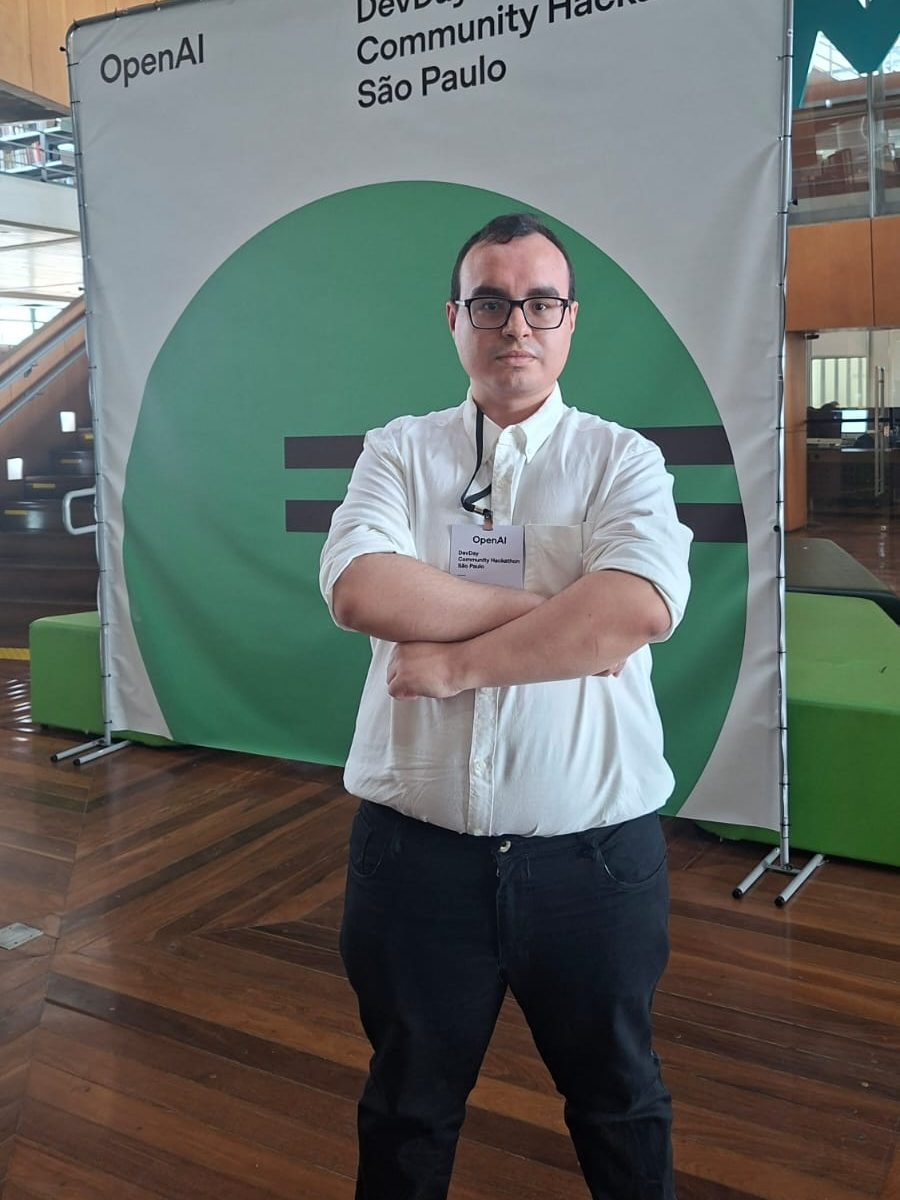
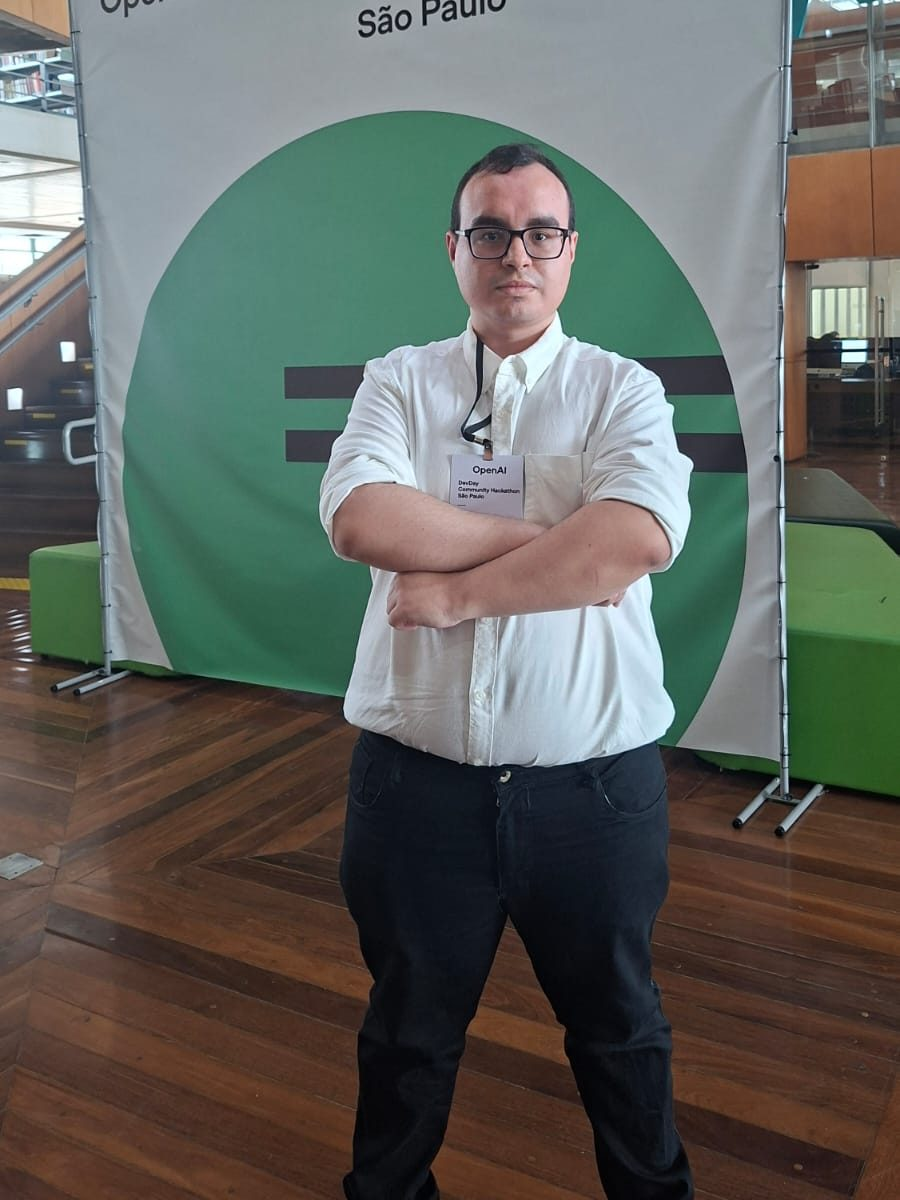
Hero photo breaks out of its frame: cutout head over the border, 3D tilt, light glare, touch drag and scroll camera
Person mask from U2-Net human segmentation; cutout placed with the inverse of the shader mapping so it lines up with the depth canvas.

Claude-Session: https://claude.ai/code/session_01MKFnPgbGyiv9D43ctdiTjM

diff --git a/assets/depth3d.js b/assets/depth3d.js
@@ -83,7 +83,10 @@
         gl.texParameteri(gl.TEXTURE_2D, gl.TEXTURE_MIN_FILTER, gl.LINEAR); gl.texParameteri(gl.TEXTURE_2D, gl.TEXTURE_MAG_FILTER, gl.LINEAR);
         gl.texParameteri(gl.TEXTURE_2D, gl.TEXTURE_WRAP_S, gl.CLAMP_TO_EDGE); gl.texParameteri(gl.TEXTURE_2D, gl.TEXTURE_WRAP_T, gl.CLAMP_TO_EDGE);
         if (!i) self.ia = im.width / im.height;
-        if (++n === 2) { self.ready = true; self.resize(); self.fig.classList.add("gl-on"); self.draw(); }
+        if (++n === 2) {
+          self.ready = true; self.fig.classList.add("gl-on"); self.resize(); self.draw();
+          if (self.hero && self.scan >= 1.5) self.fig.classList.add("cut-in");
+        }
       };
       im.src = i ? self.fig.dataset.depth : (self.imgEl.currentSrc || self.imgEl.src);
     });
@@ -96,7 +99,22 @@
       self.tm = [clamp((e.clientX - (r.left + r.width / 2)) / sx, -1, 1), clamp((e.clientY - (r.top + r.height / 2)) / sy, -1, 1)];
       self.lastInput = performance.now(); self.hover = true;
     });
-    zone.addEventListener("pointerleave", function () { self.hover = false; if (!self.hero) self.tm = [0, 0]; });
+    zone.addEventListener("pointerleave", function () { self.hover = false; self.fig.classList.remove("lit"); if (!self.hero) self.tm = [0, 0]; });
+    if (this.hero) {
+      zone.addEventListener("pointerenter", function (e) { if (e.pointerType === "mouse") self.fig.classList.add("lit"); });
+      var drag = null;
+      this.fig.addEventListener("pointerdown", function (e) {
+        if (e.pointerType === "mouse") return;
+        drag = { x: e.clientX, y: e.clientY, m: self.tm.slice() }; self.fig.classList.add("lit");
+      });
+      this.fig.addEventListener("pointermove", function (e) {
+        if (!drag) return;
+        var r = self.fig.getBoundingClientRect();
+        self.tm = [clamp(drag.m[0] + (e.clientX - drag.x) / (r.width * 0.5), -1, 1), clamp(drag.m[1] + (e.clientY - drag.y) / (r.height * 0.5), -1, 1)];
+        self.lastInput = performance.now();
+      });
+      ["pointerup", "pointercancel"].forEach(function (ev) { self.fig.addEventListener(ev, function () { drag = null; self.fig.classList.remove("lit"); }); });
+    }
     return true;
   };
   Depth.prototype.readColors = function () {
@@ -115,13 +133,40 @@
     // "object-fit: cover" com ponto de foco (data-pos), igual à <img> por baixo
     var ia = this.ia || a, px = parseFloat(this.fig.dataset.pos || 0.5), sx = 1, sy = 1;
     if (ia > a) sx = a / ia; else sy = ia / a;
-    this.gl.uniform2f(this.u.cs, sx, sy); this.gl.uniform2f(this.u.co, (1 - sx) * px, (1 - sy) * 0.5);
+    this.gl.uniform2f(this.u.cs, sx, sy); var py = parseFloat(this.fig.dataset.posy || 0.5);
+    this.gl.uniform2f(this.u.co, (1 - sx) * px, (1 - sy) * py);
+    this.map = { sx: sx, sy: sy, cx: (1 - sx) * px, cy: (1 - sy) * py, zoom: 1 + this.amt * 0.9 };
+    this.placeCut();
+  };
+  Depth.prototype.placeCut = function () {
+    var cut = this.fig.querySelector(".cut"), mp = this.map; if (!cut || !mp) return;
+    var d3 = this.canvas.parentNode, frame = d3.parentNode;
+    var W = d3.offsetWidth, H = d3.offsetHeight, ox = frame.offsetLeft + d3.offsetLeft + frame.clientLeft, oy = frame.offsetTop + d3.offsetTop + frame.clientTop;
+    var ch = parseFloat(this.fig.dataset.cutH || 0.33);
+    // inverso do mapeamento do shader: textura -> tela
+    function vx(t) { return ((t - mp.cx) / mp.sx - 0.5) * mp.zoom + 0.5; }
+    function vy(t) { return ((t - mp.cy) / mp.sy - 0.5) * mp.zoom + 0.5; }
+    var x0 = vx(0), x1 = vx(1), y0 = vy(0), y1 = vy(ch);
+    cut.style.left = (ox + x0 * W) + "px"; cut.style.top = (oy + y0 * H) + "px";
+    cut.style.width = ((x1 - x0) * W) + "px"; cut.style.height = ((y1 - y0) * H) + "px";
+  };
+  Depth.prototype.tilt = function () {
+    if (!this.hero || reduce) return;
+    var x = this.m[0], y = this.m[1] + this.sc;
+    this.fig.style.transform = "perspective(1100px) rotateY(" + (x * 9).toFixed(2) + "deg) rotateX(" + (-y * 7).toFixed(2) + "deg)";
+    this.fig.style.setProperty("--gx", (50 + x * 40).toFixed(1) + "%");
+    this.fig.style.setProperty("--gy", (30 + y * 35).toFixed(1) + "%");
   };
   Depth.prototype.step = function (t, dt) {
     var idle = performance.now() - this.lastInput > 2500;
     if (this.orbit && idle && !reduce) {
       // órbita lenta e pequena quando ninguém mexe
       this.tm = [Math.sin(t * 0.45) * 0.55 * this.orbit, Math.cos(t * 0.33) * 0.3 * this.orbit];
+    }
+    if (this.hero) {
+      var hh = (this.fig.closest(".hero") || document.body).offsetHeight || 1;
+      var tsc = clamp(window.scrollY / hh, 0, 1) * 0.9;
+      this.sc = (this.sc || 0) + (tsc - (this.sc || 0)) * (1 - Math.pow(0.004, dt));
     }
     var k = 1 - Math.pow(0.002, dt);
     this.m[0] += (this.tm[0] - this.m[0]) * k; this.m[1] += (this.tm[1] - this.m[1]) * k;
@@ -130,12 +175,14 @@
       var shown = parseFloat(getComputedStyle(this.fig).opacity) > 0.6;
       if (shown) this.scanStarted = true;
       if (this.scanStarted) this.scan = Math.min(1.5, this.scan + dt / 1.7);
+      if (this.scan > 0.08) this.fig.classList.add("cut-in");
     }
   };
   Depth.prototype.draw = function () {
     if (!this.ready) return;
     var gl = this.gl, u = this.u;
-    gl.uniform2f(u.m, this.m[0], this.m[1]);
+    gl.uniform2f(u.m, this.m[0], this.m[1] + (this.sc || 0));
+    this.tilt();
     gl.uniform1f(u.amt, reduce ? 0 : this.amt);
     gl.uniform1f(u.zoom, 1 + this.amt * 0.9);
     gl.uniform1f(u.scan, this.scan);
@@ -153,6 +200,7 @@
     var btn = fig.querySelector(".depth-btn");
     if (btn) btn.addEventListener("click", function () {
       var on = btn.getAttribute("aria-pressed") !== "true"; btn.setAttribute("aria-pressed", on ? "true" : "false");
+      fig.classList.toggle("depth-on", on);
       d.tcont = on ? 1 : 0; if (reduce) { d.cont = d.tcont; d.draw(); }
     });
   }
@@ -186,7 +234,7 @@
     if (!document.hidden) items.forEach(function (d) {
       if (vis.get(d.fig) === false) return;
       d.step(now / 1000, dt);
-      var moving = Math.abs(d.tm[0] - d.m[0]) + Math.abs(d.tm[1] - d.m[1]) > 0.0005 || Math.abs(d.tcont - d.cont) > 0.002 || (d.hero && d.scan < 1.5);
+      var moving = (d.hero && Math.abs(d.sc - clamp(window.scrollY / ((d.fig.closest(".hero") || document.body).offsetHeight || 1), 0, 1) * 0.9) > 0.001) || Math.abs(d.tm[0] - d.m[0]) + Math.abs(d.tm[1] - d.m[1]) > 0.0005 || Math.abs(d.tcont - d.cont) > 0.002 || (d.hero && d.scan < 1.5);
       if (moving || d.hero || d.orbit) d.draw();
     });
     requestAnimationFrame(loop);

diff --git a/index.html b/index.html
@@ -71,12 +71,23 @@ h1,h2,h3{font-family:var(--display);font-stretch:85%;margin:0;text-wrap:balance}
 .stats dt{font-family:var(--display);font-stretch:70%;font-weight:800;font-size:1.9rem;line-height:1;color:var(--ink);font-variant-numeric:tabular-nums;white-space:nowrap}
 .stats dd{margin:4px 0 0;font-family:var(--display);font-stretch:90%;font-size:.82rem;line-height:1.25;color:var(--muted)}
 /* fotos em 2.5D */
-.hero-fig{margin:0;background:var(--sheet);border:2px solid var(--ink)}
+/* a moldura começa no queixo: a cabeça (recortada) sai por cima da borda, e o conjunto inclina em 3D */
+.hero-fig{margin:0;position:relative;padding-top:22%;transform-style:preserve-3d;will-change:transform;touch-action:pan-y}
+.hero-fig .frame{position:relative;background:var(--sheet);border:2px solid var(--ink);transform-style:preserve-3d}
+.hero-fig .d3{aspect-ratio:900/866}
+.hero-fig .d3 img{object-position:50% 100%}
+.cut{position:absolute;left:0;top:0;width:0;height:auto;pointer-events:none;z-index:2;opacity:0;transform:translateZ(34px);transition:opacity .7s ease;filter:drop-shadow(0 10px 14px rgba(20,24,27,.18))}
+.hero-fig.cut-in .cut{opacity:1}
+.hero-fig.depth-on .cut{opacity:0;transition-duration:.25s}
+.hero-fig:not(.gl-on) .cut{display:none}
+.hero-fig:not(.gl-on){padding-top:0}
+.glare{position:absolute;inset:0;pointer-events:none;opacity:0;transition:opacity .5s;mix-blend-mode:soft-light;background:radial-gradient(circle at var(--gx,50%) var(--gy,30%),rgba(255,255,255,.75),rgba(255,255,255,0) 55%)}
+.hero-fig.lit .glare{opacity:1}
 .d3{position:relative;overflow:hidden;background:var(--grid);aspect-ratio:3/4}
 .d3 img,.d3 canvas{position:absolute;inset:0;width:100%;height:100%;object-fit:cover;display:block}
 .d3 canvas{opacity:0;transition:opacity .4s}
 .gl-on .d3 canvas{opacity:1}
-.hero-fig figcaption{display:flex;justify-content:space-between;align-items:center;gap:12px;font-family:var(--display);font-stretch:90%;font-size:.82rem;color:var(--muted);padding:6px 6px 6px 10px;border-top:2px solid var(--ink);line-height:1.3}
+.hero-fig figcaption{display:flex;justify-content:space-between;align-items:center;gap:12px;font-family:var(--display);font-stretch:90%;font-size:.82rem;color:var(--muted);padding:6px 6px 6px 10px;border-top:2px solid var(--ink);line-height:1.3;background:var(--sheet)}
 .depth-btn{flex:none;display:inline-flex;align-items:center;gap:6px;height:28px;padding:0 9px;font:600 .78rem var(--display);font-stretch:90%;color:var(--ink);background:var(--sheet);border:1px solid var(--line);cursor:pointer}
 .depth-btn:hover{border-color:var(--ink)}
 .depth-btn[aria-pressed="true"]{background:var(--blue);border-color:var(--blue);color:var(--sheet)}
@@ -265,7 +276,7 @@ details.more .job:first-child{border-top:1px solid var(--line);padding-top:16px}
   .spec th,.spec td{padding:4px 12px 4px 0}
   a{color:inherit;text-decoration:none}
 }
-@media (prefers-reduced-motion: reduce){.caret{animation:none}.bar i{transition:none}*{scroll-behavior:auto}}
+@media (prefers-reduced-motion: reduce){.hero-fig{transform:none!important}.glare{display:none}.caret{animation:none}.bar i{transition:none}*{scroll-behavior:auto}}
 html{scroll-behavior:smooth}
 footer{border-top:1px solid var(--line);font-family:var(--display);font-stretch:90%;font-size:.88rem;color:var(--muted)}
 footer a{color:var(--muted)}
@@ -334,12 +345,16 @@ footer .wrap{padding:18px 20px 36px;display:flex;justify-content:space-between;g
           <div><dt><span class="count" data-to="5" data-suffix="th">5th</span></dt><dd>OpenAI DevDay Hackathon</dd></div>
         </dl>
       </div>
-      <figure class="hero-fig depth3d" data-depth="assets/photos/hackathon-sp-depth.png" data-focus="0.82">
+      <figure class="hero-fig depth3d" data-depth="assets/photos/hackathon-sp-depth.png" data-focus="0.88" data-posy="1" data-cut="assets/photos/hackathon-sp-cut.webp" data-cut-h="0.3292">
+        <div class="frame">
         <div class="d3">
           <img src="assets/photos/hackathon-sp.jpg" width="900" height="1200" alt="Danilo with arms crossed in front of the OpenAI DevDay Community Hackathon banner in São Paulo" fetchpriority="high">
           <canvas aria-hidden="true"></canvas>
+          <span class="glare" aria-hidden="true"></span>
         </div>
         <figcaption><span>OpenAI DevDay Community Hackathon, São Paulo</span><button type="button" class="depth-btn" aria-pressed="false" title="Show the depth map the 3D effect is built from"><i class="fa-solid fa-layer-group" aria-hidden="true"></i><span>Depth</span></button></figcaption>
+        </div>
+        <img class="cut" src="assets/photos/hackathon-sp-cut.webp" alt="" aria-hidden="true" decoding="async">
       </figure>
     </div>
 
